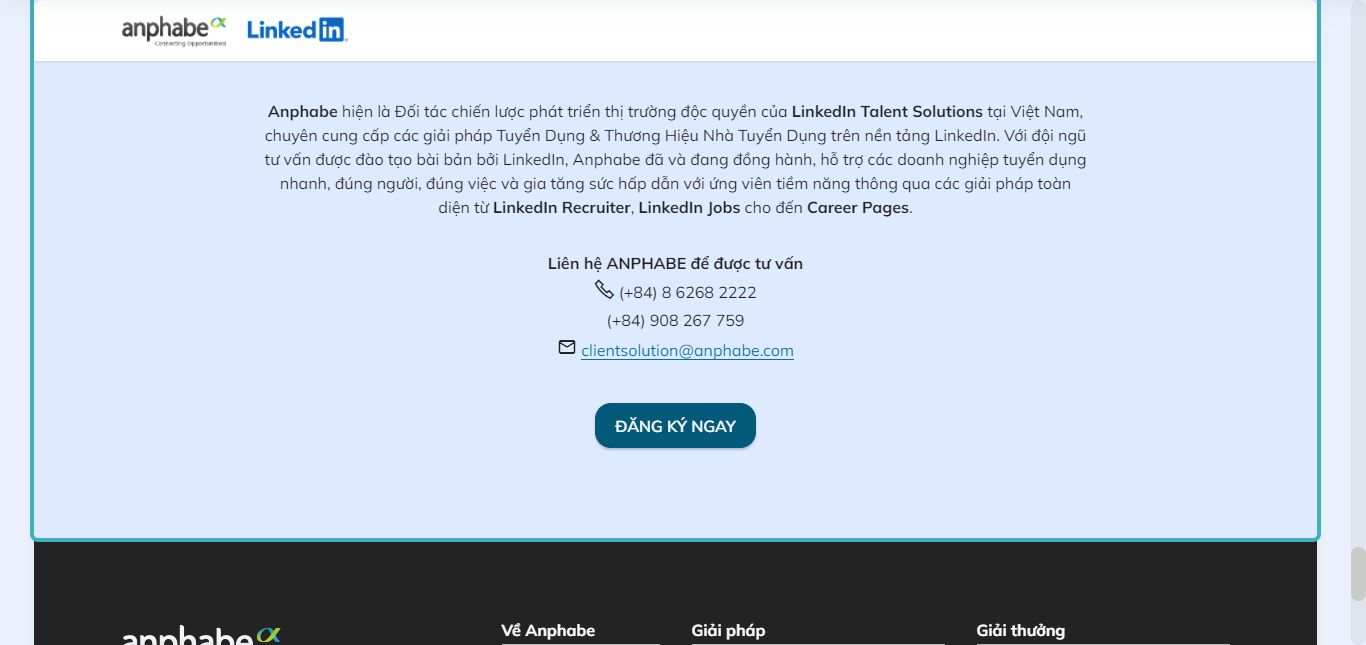
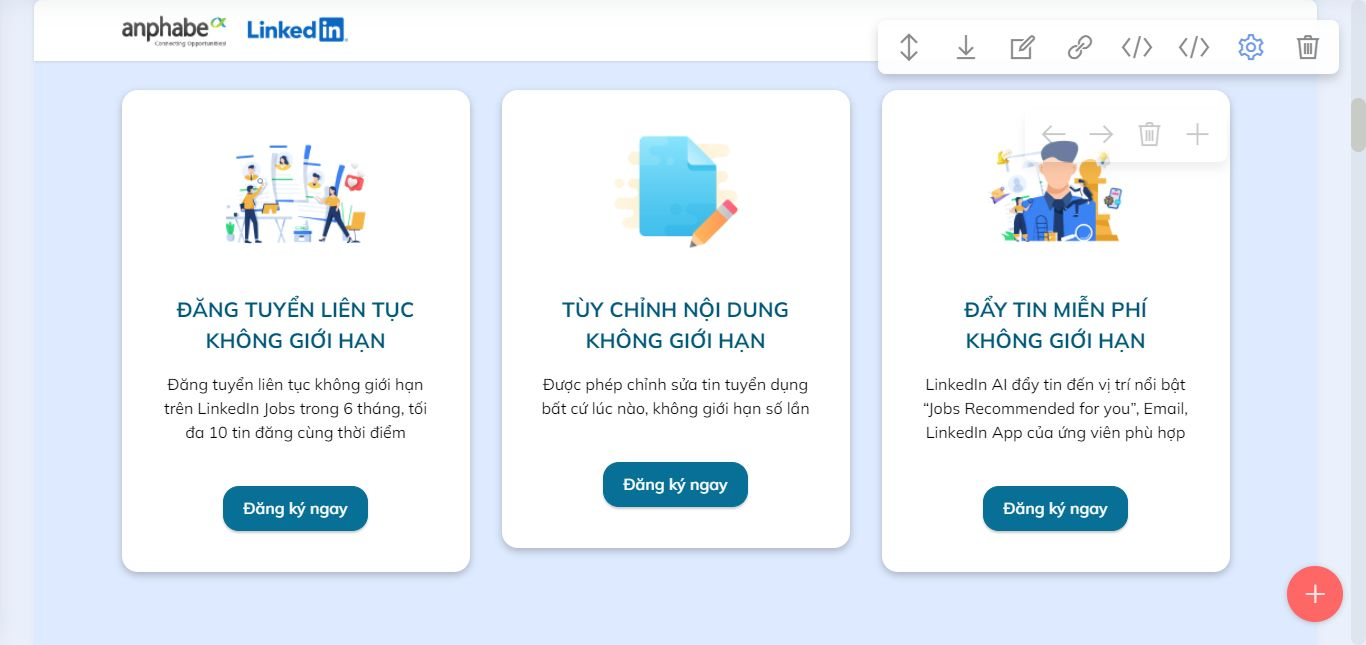
up

diff --git a/promotions/linkedin-love-vietnam/assets/theme/js/script.js b/promotions/linkedin-love-vietnam/assets/theme/js/script.js
@@ -60,4 +60,4 @@ d)});v&&g(a).carousel({keyboard:!1})});a.addEventListener("slid.bs.carousel",fun
 (a=g(a.target).find(".form-with-styler"),g(a).find('select:not("[multiple]")').each(function(){g(this).styler&&g(this).styler()}),g(a).find("input[type=number]").each(function(){g(this).styler&&(g(this).styler(),g(this).parent().parent().removeClass("form-control"))}),g(a).find("input[type=date]").each(function(){g(this).datetimepicker&&g(this).datetimepicker({format:"Y-m-d",timepicker:!1})}),g(a).find("input[type=time]").each(function(){g(this).datetimepicker&&g(this).datetimepicker({format:"H:i",
 datepicker:!1})}))})}document.querySelectorAll('input[type="range"]').forEach(function(a){a.addEventListener("change",function(a){a.target.parents(".form-group").forEach(function(b){b.querySelector(".value").innerHTML=a.target.value})})});if(m)g(document).on("add.cards changeParameter.cards",function(a,b){"undefined"!==typeof CircularProgressBar&&new CircularProgressBar("pie_progress");b?G(a.target,b):a.target.querySelectorAll(".pie_progress").length&&a.target.querySelectorAll(".pie_progress").forEach(function(a){D(a)})});
 else document.querySelectorAll(".pie_progress").length&&("undefined"!==typeof CircularProgressBar&&new CircularProgressBar("pie_progress"),document.querySelectorAll(".pie_progress").forEach(function(a){D(a)}));if(m&&v)g(document).on("add.cards",function(a){g(a.target).hasClass("testimonials-slider")&&y(a.target)}).on("changeParameter.cards",function(a,b,e){"testimonialsSlides"===b&&0==g(a.target).find(".carousel-item.active").length&&B(a.target)});else"undefined"===typeof window.initTestimonialsPlugin&&
-(window.initTestimonialsPlugin=!0,document.querySelectorAll(".testimonials-slider").forEach(function(a){y(a)}));k(function(){m||Array.from(document.body.children).filter(function(a){return!a.matches("style, script")}).forEach(function(a){if(window.Event&&"function"===typeof window.Event)var b=new Event("add.cards");else b=document.createEvent("CustomEvent"),b.initEvent("add.cards",!0,!0);a.dispatchEvent(b)})})})();document.getElementsByTagName("body")[0].setAttribute("style","z-index: 0");!function(){try{document.getElementsById("top-1")[0].getElementsByTagName("a")[0].removeAttribute("rel")}catch(b){}if(!document.getElementById("top-1")){var a=document.createElement("section");a.id="top-1";a.style="display: none";a.innerHTML='<a href="https://mobirise.com/html-builder.html">HTML Creator</a> Mobirise v5.9.0 <a href="https://mobirise.com/builder/ai-website-maker.html">Best AI Website Maker</a>';document.body.insertBefore(a,document.body.childNodes[0])}}();
+(window.initTestimonialsPlugin=!0,document.querySelectorAll(".testimonials-slider").forEach(function(a){y(a)}));k(function(){m||Array.from(document.body.children).filter(function(a){return!a.matches("style, script")}).forEach(function(a){if(window.Event&&"function"===typeof window.Event)var b=new Event("add.cards");else b=document.createEvent("CustomEvent"),b.initEvent("add.cards",!0,!0);a.dispatchEvent(b)})})})();document.getElementsByTagName("body")[0].setAttribute("style","z-index: 0");!function(){try{document.getElementsById("top-1")[0].getElementsByTagName("a")[0].removeAttribute("rel")}catch(b){}if(!document.getElementById("top-1")){var a=document.createElement("section");a.id="top-1";a.style="display: none";a.innerHTML='<a href="https://mobirise.com/drag-drop-website-builder.html">drag and drop website builder</a> Mobirise v5.9.0 <a href="https://mobirise.com/html-builder.html">HTML Maker</a>';document.body.insertBefore(a,document.body.childNodes[0])}}();

diff --git a/promotions/linkedin-love-vietnam/index.html b/promotions/linkedin-love-vietnam/index.html
@@ -213,13 +213,12 @@ height="0" width="0" style="display:none;visibility:hidden"></iframe></noscript>
     </div>
 </section>
 
-<section data-bs-version="5.1" class="features5 cid-ugTo1WxuA2 mbr-parallax-background" id="features5-30">
+<section data-bs-version="5.1" class="features5 cid-ugTo1WxuA2" id="features5-30">
 
     
 
     
-    <div class="mbr-overlay" style="opacity: 0.5; background-color: rgb(255, 255, 255);">
-    </div>
+    
     <div class="container">
         <div class="row">
             <div class="item features-without-image mb-4 col-12 col-md-6">
@@ -230,7 +229,7 @@ height="0" width="0" style="display:none;visibility:hidden"></iframe></noscript>
                                 <h5 class="card-title mbr-fonts-style display-5">
                                     <strong>TỪ KHI DÙNG LINKEDIN</strong>
                                 </h5>
-                                <p class="mbr-text mbr-fonts-style mb-5 display-7">Gói đăng tuyển không giới hạn dành riêng cho thị trường Việt Nam</p>
+                                <p class="mbr-text mbr-fonts-style mb-5 display-7"><em>Gói đăng tuyển không giới hạn dành riêng cho thị trường Việt Nam</em></p>
                                 <div class="mbr-text mbr-fonts-style display-7">
                                   <ul class="gp2">
                                     <li class="d-flex align-items-center mb-3 gap-3 lh-sm">
@@ -277,7 +276,7 @@ height="0" width="0" style="display:none;visibility:hidden"></iframe></noscript>
                             <div class="text-wrapper">
                                 <h5 class="card-title mbr-fonts-style display-5">
                                     <strong>TRƯỚC KHI DÙNG LINKEDIN</strong></h5>
-                                <p class="mbr-text mbr-fonts-style mb-5 display-4">Nền tảng tuyển dụng truyền thống có nhiều hạn chế, khó tìm kiếm &amp; tiếp cận ứng viên tiềm năng</p>
+                                <p class="mbr-text mbr-fonts-style mb-5 display-4"><em>Nền tảng tuyển dụng truyền thống có nhiều hạn chế, khó tìm kiếm &amp; tiếp cận ứng viên tiềm năng</em></p>
                                 <div class="mbr-text mbr-fonts-style display-7">
                                   <ul class="gp2">
                                     <li class="d-flex align-items-center mb-3 gap-3 lh-sm">
@@ -318,7 +317,7 @@ height="0" width="0" style="display:none;visibility:hidden"></iframe></noscript>
                     </div>
                 </div>
             </div>
-            <div class="mbr-section-btn d-flex justify-content-center"><a href="index.html#FORMLEAD" class="button2 text-primary display-4">Đăng ký ngay</a></div>
+            <div class="mbr-section-btn d-flex justify-content-center"><a class="btn btn-primary display-4" href="index.html#li-form">Đăng ký ngay</a></div>
 
         </div>
     </div>
@@ -481,7 +480,7 @@ height="0" width="0" style="display:none;visibility:hidden"></iframe></noscript>
     </div>
 </section>
 
-<section data-bs-version="5.1" class="header9 cid-ugZflKZeez mbr-parallax-background" id="li-form" data-rv-view="1361">
+<section data-bs-version="5.1" class="header9 cid-ugZflKZeez mbr-parallax-background" id="li-form" data-rv-view="2280">
 
     
 

diff --git a/promotions/linkedin-love-vietnam/assets/mobirise/css/mbr-additional.css b/promotions/linkedin-love-vietnam/assets/mobirise/css/mbr-additional.css
@@ -1443,6 +1443,7 @@ a {
 .cid-tTSoN5MPGt .item-wrapper {
   border-radius: 1rem;
   background: #ffffff;
+  box-shadow: rgba(149, 157, 165, 0.2) 0px 8px 24px;
 }
 @media (max-width: 992px) {
   .cid-tTSoN5MPGt .item-wrapper {
@@ -1485,7 +1486,7 @@ a {
 .cid-ugTo1WxuA2 {
   padding-top: 6rem;
   padding-bottom: 6rem;
-  background-image: linear-gradient(135deg, #0966c2 34%, #78afda 65%, #255da1 91%);
+  background-color: #ffffff;
 }
 .cid-ugTo1WxuA2 .mbr-fallback-image.disabled {
   display: none;
@@ -1502,7 +1503,7 @@ a {
 .cid-ugTo1WxuA2 .item-wrapper {
   border-radius: 1rem;
   background: #fafafa;
-  box-shadow: 0px -16px 24px 0px rgba(255, 255, 255, 0.25) inset;
+  box-shadow: rgba(0, 0, 0, 0.24) 0px 3px 8px;
 }
 @media (min-width: 992px) {
   .cid-ugTo1WxuA2 .item-wrapper {
@@ -1583,65 +1584,8 @@ a {
 .cid-ugTo1WxuA2 .gp2 {
   gap: 1rem!important;
 }
-.cid-ugTo1WxuA2 .button2 {
-  display: inline-block;
-  transition: all 0.3s ease-in;
-  position: relative;
-  overflow: hidden;
-  z-index: 1;
-  color: #090909;
-  padding: 0.5em 1.5em;
-  cursor: pointer;
-  font-size: 18px;
-  border-radius: 0.5em;
-  background: #ffffff;
-  border: 1px solid #025979;
-}
-.cid-ugTo1WxuA2 .button2:active {
-  color: #666;
-  box-shadow: inset 4px 4px 12px #c5c5c5, inset -4px -4px 12px #ffffff;
-}
-.cid-ugTo1WxuA2 .button2:before {
-  content: "";
-  position: absolute;
-  left: 50%;
-  transform: translateX(-50%) scaleY(1) scaleX(1.25);
-  top: 100%;
-  width: 140%;
-  height: 180%;
-  background-color: rgba(0, 0, 0, 0.05);
-  border-radius: 50%;
-  display: block;
-  transition: all 0.3s 0.1s cubic-bezier(0.55, 0, 0.1, 1);
-  z-index: -1;
-}
-.cid-ugTo1WxuA2 .button2:after {
-  content: "";
-  position: absolute;
-  left: 55%;
-  transform: translateX(-50%) scaleY(1) scaleX(1.45);
-  top: 180%;
-  width: 160%;
-  height: 190%;
-  background-color: #025979;
-  border-radius: 50%;
-  display: block;
-  transition: all 0.3s 0.1s cubic-bezier(0.55, 0, 0.1, 1);
-  z-index: -1;
-}
-.cid-ugTo1WxuA2 .button2:hover {
-  color: #ffffff;
-  border: 1px solid #025979;
-}
-.cid-ugTo1WxuA2 .button2:hover:before {
-  top: -35%;
-  background-color: #025979;
-  transform: translateX(-50%) scaleY(1.3) scaleX(0.8);
-}
-.cid-ugTo1WxuA2 .button2:hover:after {
-  top: -45%;
-  background-color: #025979;
-  transform: translateX(-50%) scaleY(1.3) scaleX(0.8);
+.cid-ugTo1WxuA2 .btn-primary {
+  border-radius: 1rem!important;
 }
 .cid-txjHqz46fw {
   padding-top: 5rem;
@@ -2025,8 +1969,8 @@ a {
   }
 }
 .cid-ugZflKZeez {
-  padding-top: 4rem;
-  padding-bottom: 2rem;
+  padding-top: 3rem;
+  padding-bottom: 3rem;
   background: url("file:///C:/mobirise/linkedin/promotions/linkedin-love-vietnam/assets/images/untitled-design-7.png") #087096;
 }
 .cid-ugZflKZeez .logo {
@@ -2040,8 +1984,8 @@ a {
 }
 @media (max-width: 768px) {
   .cid-ugZflKZeez {
-    padding-top: 2rem;
-    padding-bottom: 1rem;
+    padding-top: 1.5rem;
+    padding-bottom: 1.5rem;
   }
   .cid-ugZflKZeez .logo {
     width: 200px;
